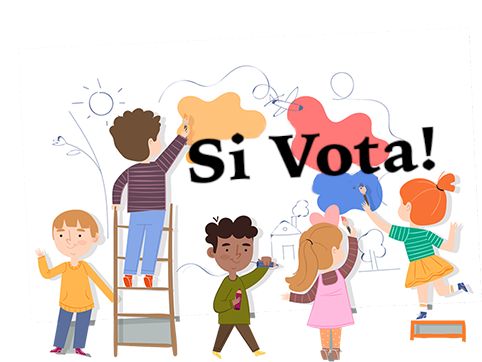
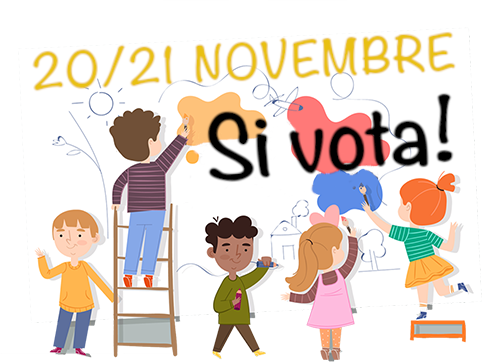
Hero image "si vota!"

Changed region(s): [[0.3734, 0.2431, 0.9647, 0.5166], [0.4046, 0.0912, 0.9336, 0.2431], [0.0622, 0.1215, 0.3734, 0.2735]]

diff --git a/index.html b/index.html
@@ -92,7 +92,7 @@
             </div>
             <div class="hero_img-container">
                 <div><a href="chisicandida.html">
-                    <img src="images/hero_edit.png" alt="" class="img-fluid"></a>
+                    <img src="images/hero_sivota.png" alt="" class="img-fluid"></a>
                 </div>
             </div>
         </div>
